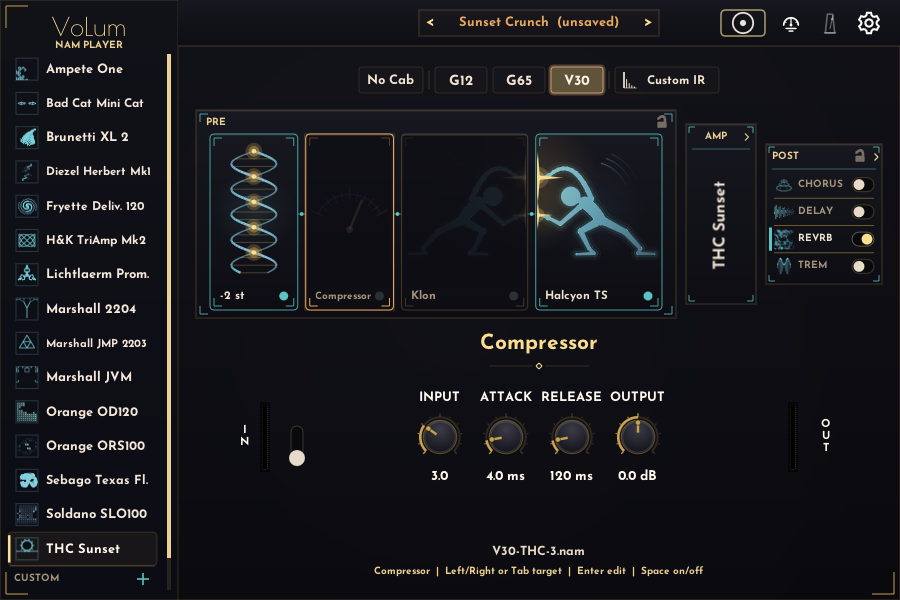
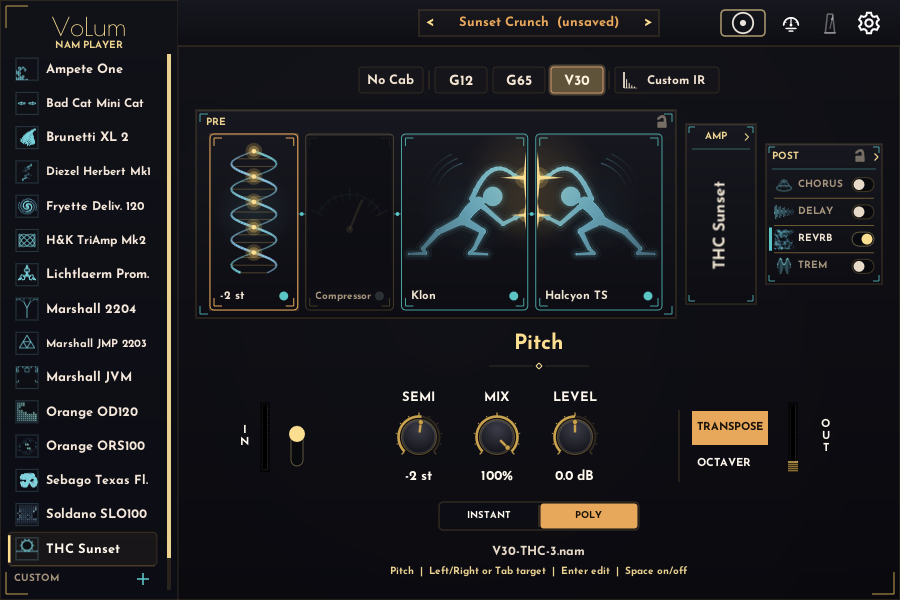
Docs: fix 10 wrong user-guide screenshots and redo dual-amp GIF
Recapture pre-pedal, pitch-transpose, pitch-octaver, presets, chorus, tremolo, play-picker, custom-amp, custom-ir and custom-pedal against a true sandbox reseed (the earlier pass never reseeded). The dual-amp GIF now uses the healthy DocMap rail with no Invalid slot row. Correct the recipe coordinates and note the -Reseed binding pitfall.

diff --git a/docs/screenshot-recipes.md b/docs/screenshot-recipes.md
@@ -180,30 +180,30 @@ when the number of tabs changes. It is three tabs wide since 1.3.0: window x
 
 ## 3. Per-shot recipe
 
-Launch fresh (`Start-Process ...\VoLum.exe`; wait ~6s) before each group. All
+Launch fresh (`.ui-sandbox-launch.ps1`; wait ~6s) before each group. Pass `-Reseed` as a switch (`& script -Reseed`); a quoted `"-Reseed"` string is bound positionally and silently skips the reseed. All
 capture with `capture-volum-canvas.ps1 -OutPath docs/user-guide-<name>.png`.
 
 | PNG | Amp / how to reach | State delta from seed | Transient step |
 | --- | --- | --- | --- |
 | `user-guide-play-start.png` | Soldano SLO100 (`lastAmpIdx` 13), library with no `midiSoundMap` key | the PLAY pre-fill: `.ui-sandbox-launch.ps1 -Reseed` always writes a map, so close VoLum, delete the `midiSoundMap` key from `%TEMP%\volum-ui-sandbox\VoLum\content\volum-content.json`, and relaunch `.ui-sandbox-launch.ps1` without `-Reseed` | canvas: empty click `(10,10)` then toggle `(743, 22)` into PLAY. Fail the shot unless the rail holds exactly 00 The bestest Clean, 01 SLO Crunch, 02 Modern Rhythm, 03 Crack the Skye, 04 Ampete Lead, **+** reads **+ Add this sound**, and no PLAY\|BUILD words are in the header |
-| `user-guide-play-picker.png` | Soldano, after one User Sound is LIVE | map slot 0 to Crunch Rhythm | from the empty board (`.ui-sandbox-launch.ps1 -Reseed -EmptyMap`: a stored midiSoundMap key, even an empty one, is never pre-filled; a missing key is), **+ Add this sound** `(450, 324)` once to put LIVE on the rail, then rail **+ Add Sound** `(803, 301)`. Picker: PROGRAM next-free, User heading `(450, 265)` expanded |
+| `user-guide-play-picker.png` | Soldano, after one User Sound is LIVE | map slot 0 to a saved User Sound | from the empty board (`.ui-sandbox-launch.ps1 -Reseed -EmptyMap`, then set `lastAmpIdx` 13 in the sandbox `volum-settings.json` while VoLum is closed and relaunch; a stored midiSoundMap key, even an empty one, is never pre-filled; a missing key is): `-Clicks "10,10;743,22"`, **+ Add this sound** `(450, 324)` opens the Save preset dialog (type a name and `{ENTER}` via `-Keys`; the Sound then goes LIVE on the rail), then rail **+ Add Sound** `(803, 160)`. Picker: PROGRAM next-free, User heading `(450, 264)` expanded |
 | `user-guide-play.png` | Soldano SLO100 | slots 0–2 = Crunch Rhythm / Lead Boost / Clean Verb, slot 0 LIVE | canvas toggle `(743, 22)` if you are in BUILD. Fail if **+** is not **+ Add Sound** or if a safety banner is visible. PLAY IN/OUT should read in the same ballpark as BUILD. Drag a rail row onto another to swap; drop in the gap to slide Sounds along existing program numbers |
 | `user-guide-main.png` | THC Sunset (seed lastAmpIdx 14, AMP view, **Sunset Crunch**) | none | click **THC Sunset** in the browser (93,565) if the custom amp is focused. Compact pill left of tuner. Fail if NAM 2 is an empty `+` or the preset bar is not Sunset Crunch |
 | `user-guide-settings-signal.png` | any | none | canvas gear `(869, 22)`; Settings opens on the tab it was left on, so click **SIGNAL** `(300, 113)` |
 | `user-guide-settings-midi.png` | any | `.ui-sandbox-launch.ps1 -Reseed`: programs 0, 1, 2, 4 assigned and 6 pointing at a preset id that does not exist (`preset_gone_forever`), so footswitch bank 1 shows assigned, empty **+** and a red **Invalid slot** switch; switch 002 is Ampete One's first Factory preset, **Ampete Rhythm** | toggle PLAY `(743, 22)`, click rail row 00 `(800, 105)` so switch 000 lights **LIVE**, toggle back `(743, 22)`, gear `(869, 22)`, **MIDI** `(450, 113)`. Fail if a switch name is cut mid-word without an ellipsis or LIVE is missing |
 | `user-guide-settings-system.png` | any | none | from Settings, click **SYSTEM** `(600, 113)`. Both **Back up your library** help lines stay inside the card |
 | `user-guide-pre.png` | THC Sunset | `preCompActive=true` (hero keeps Comp off) | `1` then click Comp card. Fail if either NAM slot is empty |
-| `user-guide-pre-pedal.png` | THC Sunset | none | from PRE, click Klon card `(455, 230)` twice to open the capture chooser |
+| `user-guide-pre-pedal.png` | THC Sunset | none | `-Keys "1"`, then `-Clicks "455,230;455,230"` (focus, then open the capture chooser; one capture per call) |
 | `user-guide-pitch-transpose.png` | THC Sunset | `prePitchActive=true, prePitchMode=0, prePitchSemitones=-2, prePitchTransChar=2`; Comp off; both NAM still assigned | `1` then click Pitch card `(280, 230)` |
 | `user-guide-pitch-octaver.png` | THC Sunset | `prePitchActive=true, prePitchMode=1, prePitchOctDown=0.8, prePitchVoicing=1`; Comp off; both NAM still assigned | `1` then click Pitch card `(280, 230)` |
-| `user-guide-presets.png` | THC Sunset | none (Sunset Crunch bank) | click preset bar `(539, 23)`, then expand FACTORY `(430, 88)` and USER (below the two Factory rows). Menu must show Default, FACTORY Sunset Crunch and Sunset Clean, USER Sunset Crunch, Manage |
+| `user-guide-presets.png` | THC Sunset | none (Sunset Crunch bank) | `-Clicks "539,23;450,77;450,143"`: preset bar, expand FACTORY, expand USER (it moves down two rows once FACTORY is open). Menu must show Default, FACTORY Sunset Crunch and Sunset Clean, USER Sunset Crunch, Manage |
 | `user-guide-post.png` | ORS100 (lastAmpIdx 11) | none | `{ESC}` then `{UP}` to 11, `3` (POST; Delay focused). Fail if either NAM slot is an empty `+` |
-| `user-guide-chorus.png` | ORS100 | `postChorusActive=true` | `3` then `{LEFT}` (focus CHORUS). The seed stores no Chorus voice, so the card opens on the default: fail if it is not ENSEMBLE |
-| `user-guide-tremolo.png` | ORS100 | `postDelayActive=false, postTremoloActive=true, postTremoloMode=1` | `3` then `{RIGHT}{RIGHT}` (focus TREM) |
+| `user-guide-chorus.png` | ORS100 | `postChorusActive=true` | `-Keys "3"`, then click the Chorus card `(470, 230)` (`{LEFT}` after `3` does not reach it). The seed stores no Chorus voice, so the card opens on the default: fail if it is not ENSEMBLE |
+| `user-guide-tremolo.png` | ORS100 | `postDelayActive=false, postTremoloActive=true, postTremoloMode=1` | `-Keys "3"`, then click the Trem card `(820, 230)` |
 | `user-guide-dual-amp.png` | Marshall 2204 (lastAmpIdx 7) | none (dual on in sidecar) | `2` (AMP). Fail if either NAM slot is empty |
-| `user-guide-custom-amp.png` | Monomyth (`{ESC}` then 8x `{DOWN}` from Marshall 2204) | none | click pen icon (125,625) to open builder |
-| `user-guide-custom-ir.png` | Monomyth (ch1) | none | click "Custom IR" cab (674,111) |
-| `user-guide-custom-pedal.png` | Monomyth | none | `1`, click NAM1 `(455, 230)` twice. The chooser (CUSTOM **5000$ Klon** + **Manage custom pedals...**) is the shot |
+| `user-guide-custom-amp.png` | Monomyth (set `lastAmpIdx` 15 in the sandbox settings while closed, or `{UP}` x5 from Fryette: arrows wrap to the custom row) | none | click pen icon `(122, 575)` to open builder |
+| `user-guide-custom-ir.png` | Monomyth (ch1) | none | click "Custom IR" cab `(665, 80)` |
+| `user-guide-custom-pedal.png` | Monomyth | none | `-Keys "1"`, then click the empty NAM1 card `(455, 230)` once (it opens the chooser straight away). The chooser (CUSTOM **5000$ Klon** + **Manage custom pedals...**) is the shot |
 | `user-guide-tuner.png` | THC Sunset | none | key `t`. Background is the filled BUILD hero |
 | `user-guide-metronome.png` | THC Sunset | none | key `m`. Background is the filled BUILD hero |
 | `user-guide-pack-export.png` | any (Soldano map as in PLAY board) | none | canvas gear `(869, 22)`, **SYSTEM** `(600, 113)`, **Export Pack...** `(525, 346)`, scope **Sounds** `(250, 173)`, tick first Sound `(198, 228)`. Fail if the companion band is missing or still says `Also including:` |
